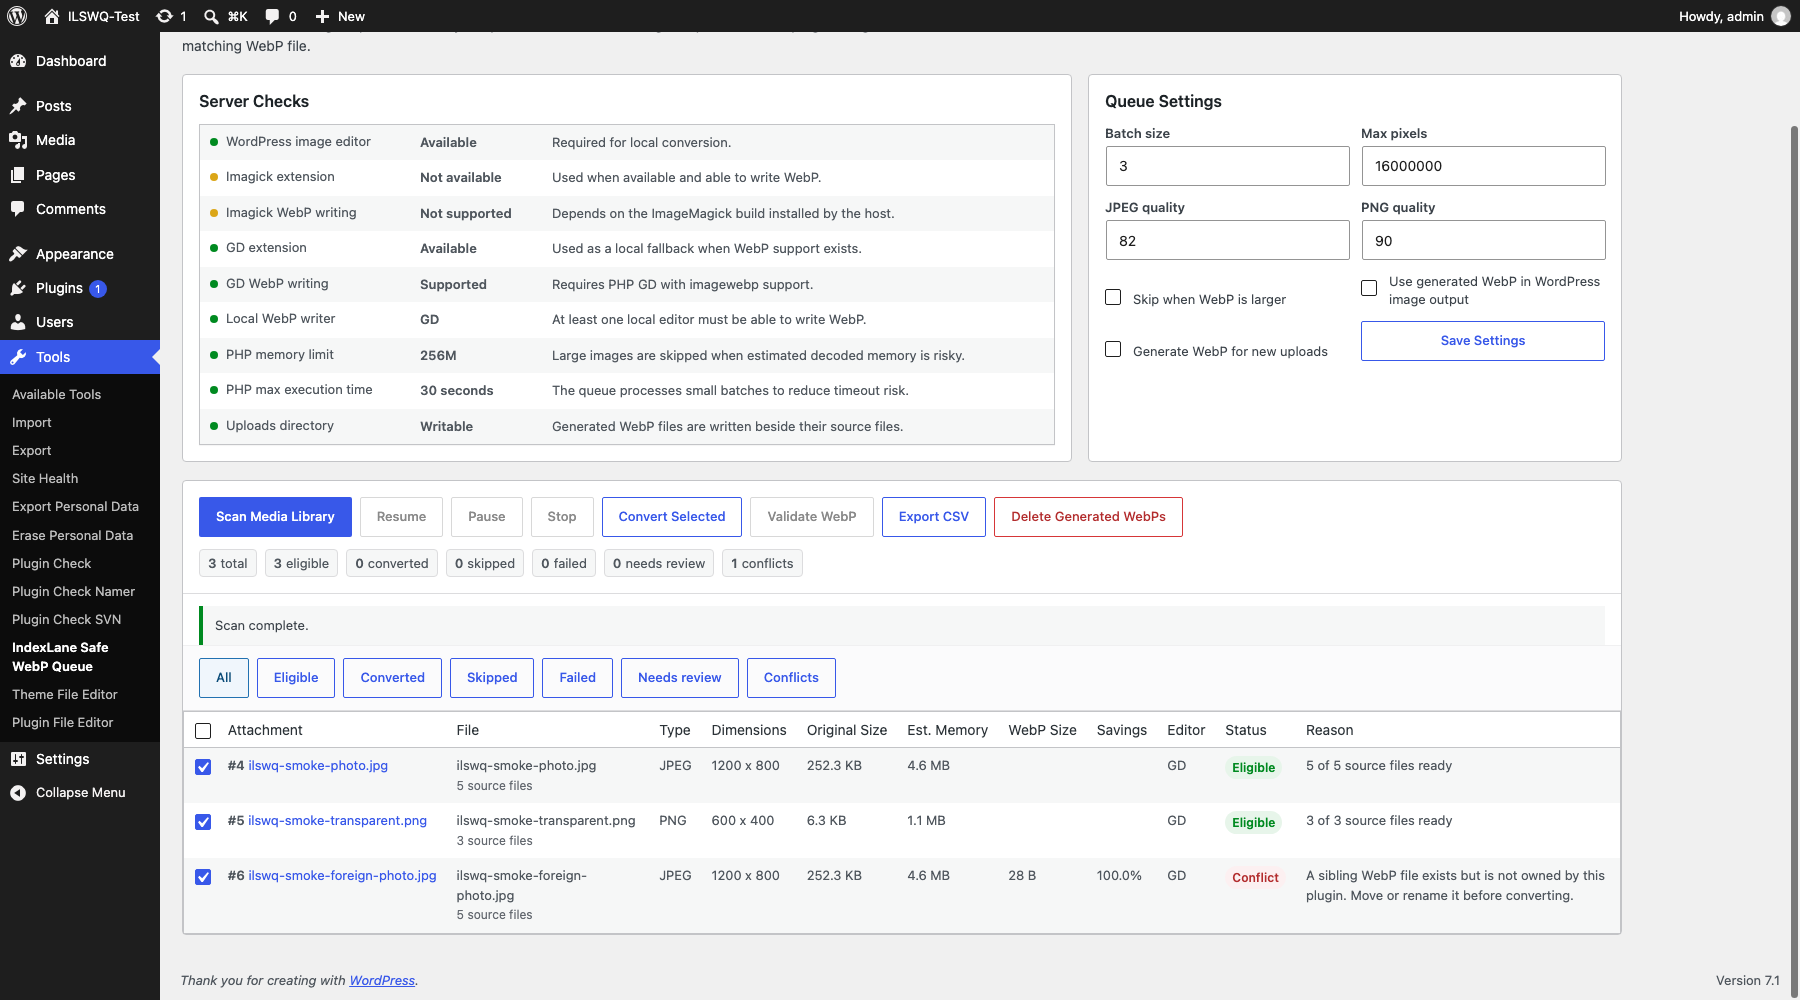
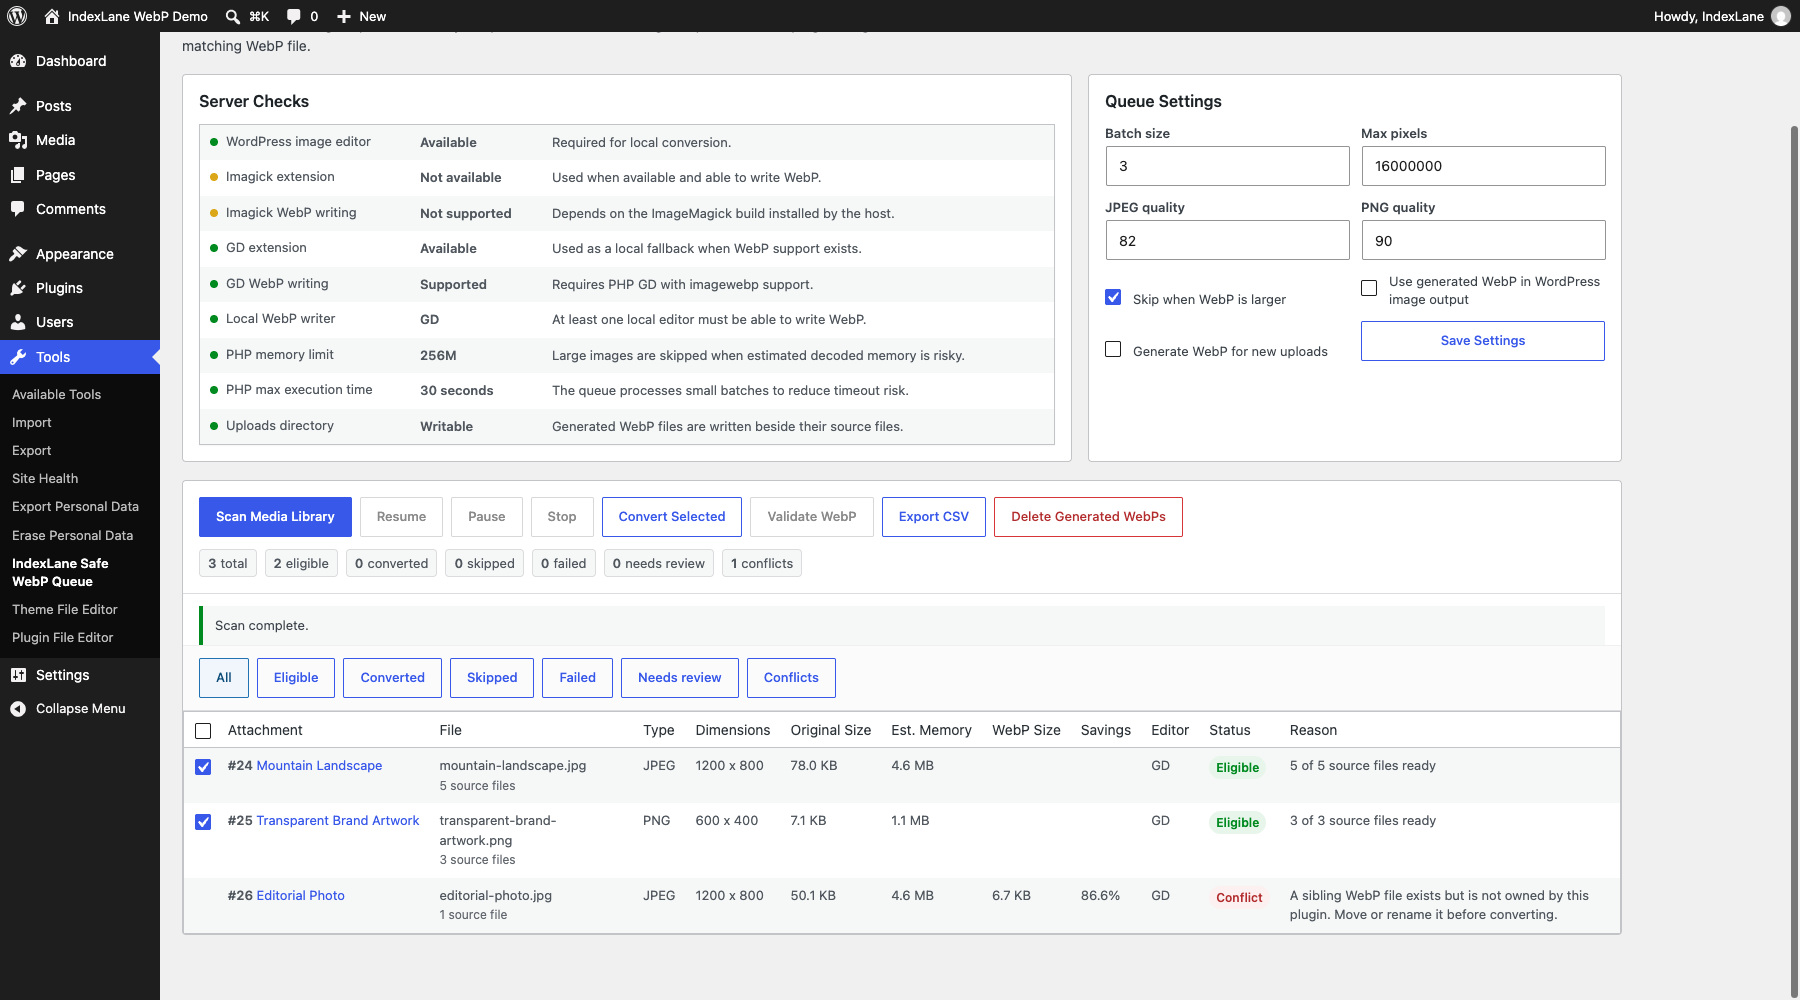
Publish WordPress.org directory assets

diff --git a/scripts/capture-screenshots.js b/scripts/capture-screenshots.js
@@ -269,6 +269,27 @@ async function navigate(client, url) {
 	await waitFor(client, 'document.readyState === "complete"', 30000);
 }
 
+async function cleanAdminChrome(client) {
+	await evaluate(
+		client,
+		`(() => {
+			const style = document.createElement('style');
+			style.textContent = [
+				'#wpbody-content > .update-nag',
+				'#wpbody-content > .notice:not(.ilswq-notice)',
+				'#wp-admin-bar-updates',
+				'#wp-admin-bar-sqlite-db-integration',
+				'#adminmenu .update-plugins',
+				'#adminmenu .awaiting-mod',
+				'#adminmenu .site-health-counter',
+				'#wpfooter'
+			].join(',') + '{display:none!important;}';
+			document.head.appendChild(style);
+			return true;
+		})()`
+	);
+}
+
 (async () => {
 	const target = await requestJson('PUT', `/json/new?${encodeURIComponent('about:blank')}`);
 	const client = new CdpClient(target.webSocketDebuggerUrl);
@@ -297,6 +318,7 @@ true;`
 
 		await navigate(client, `${baseUrl}/wp-admin/tools.php?page=indexlane-safe-webp-queue`);
 		await waitFor(client, '!!document.querySelector("#ilswq-scan")');
+		await cleanAdminChrome(client);
 		await evaluate(client, 'window.scrollTo(0, 0); true;');
 		await screenshot(client, 'screenshot-1.png');
 

diff --git a/scripts/prepare-screenshot-site.php b/scripts/prepare-screenshot-site.php
@@ -1,0 +1,230 @@
+<?php
+/**
+ * Prepare an isolated local WordPress copy for directory screenshots.
+ *
+ * Usage: php scripts/prepare-screenshot-site.php /private/tmp/ilswq-wporg.XXXXXX
+ *
+ * @package IndexLaneSafeWebPQueue
+ */
+
+$wp_path  = isset( $argv[1] ) ? rtrim( (string) $argv[1], '/\\' ) : '';
+$base_url = rtrim( (string) ( getenv( 'ILSWQ_BASE_URL' ) ?: 'http://127.0.0.1:8070' ), '/' );
+$username = (string) ( getenv( 'ILSWQ_WP_USER' ) ?: 'ilswqadmin' );
+$password = (string) ( getenv( 'ILSWQ_WP_PASS' ) ?: 'password' );
+$realpath = realpath( $wp_path );
+$host     = (string) parse_url( $base_url, PHP_URL_HOST );
+
+if (
+	false === $realpath ||
+	0 !== strpos( $realpath, '/private/tmp/ilswq-wporg.' ) ||
+	! file_exists( $realpath . '/wp-load.php' )
+) {
+	fwrite( STDERR, "An isolated WordPress copy under /private/tmp/ilswq-wporg.* is required.\n" );
+	exit( 1 );
+}
+
+if ( ! in_array( $host, array( '127.0.0.1', 'localhost', '::1' ), true ) ) {
+	fwrite( STDERR, "ILSWQ_BASE_URL must use a loopback host.\n" );
+	exit( 1 );
+}
+
+define( 'WP_USE_THEMES', false );
+if ( ! defined( 'WP_ENVIRONMENT_TYPE' ) ) {
+	define( 'WP_ENVIRONMENT_TYPE', 'local' );
+}
+
+require $realpath . '/wp-load.php';
+require_once ABSPATH . 'wp-admin/includes/file.php';
+require_once ABSPATH . 'wp-admin/includes/image.php';
+require_once ABSPATH . 'wp-admin/includes/plugin.php';
+require_once ABSPATH . 'wp-admin/includes/user.php';
+
+update_option( 'siteurl', $base_url );
+update_option( 'home', $base_url );
+update_option( 'blogname', 'IndexLane WebP Demo' );
+update_option( 'blogdescription', 'Safe local image conversion' );
+update_option( 'active_plugins', array( 'sqlite-database-integration/load.php' ) );
+
+$activation = activate_plugin( 'indexlane-safe-webp-queue/indexlane-safe-webp-queue.php' );
+if ( is_wp_error( $activation ) ) {
+	fwrite( STDERR, $activation->get_error_message() . "\n" );
+	exit( 1 );
+}
+
+if ( ! ILSWQ_Capabilities::has_webp_writer() ) {
+	fwrite( STDERR, "The isolated WordPress copy does not have a WebP writer.\n" );
+	exit( 2 );
+}
+
+$user_id = username_exists( $username );
+if ( ! $user_id ) {
+	$user_id = wp_create_user( $username, $password, $username . '@example.invalid' );
+}
+
+if ( is_wp_error( $user_id ) ) {
+	fwrite( STDERR, $user_id->get_error_message() . "\n" );
+	exit( 1 );
+}
+
+wp_set_password( $password, (int) $user_id );
+wp_update_user(
+	array(
+		'ID'           => (int) $user_id,
+		'display_name' => 'IndexLane',
+		'nickname'     => 'IndexLane',
+	)
+);
+( new WP_User( (int) $user_id ) )->set_role( 'administrator' );
+
+update_option( 'thumbnail_size_w', 150 );
+update_option( 'thumbnail_size_h', 150 );
+update_option( 'thumbnail_crop', 1 );
+update_option( 'medium_size_w', 300 );
+update_option( 'medium_size_h', 300 );
+update_option( 'medium_large_size_w', 768 );
+update_option( 'medium_large_size_h', 0 );
+update_option( 'large_size_w', 1024 );
+update_option( 'large_size_h', 1024 );
+
+$cleanup = new ILSWQ_Converter( new ILSWQ_Scanner() );
+do {
+	$cleanup_result = $cleanup->cleanup_generated( 10 );
+} while ( ! empty( $cleanup_result['hasMore'] ) );
+
+foreach ( get_posts( array( 'post_type' => 'attachment', 'post_status' => 'any', 'numberposts' => -1 ) ) as $attachment ) {
+	$source_path = get_attached_file( (int) $attachment->ID );
+	if ( is_string( $source_path ) && '' !== $source_path ) {
+		$sidecar_path = ILSWQ_Scanner::output_path( $source_path );
+		if ( file_exists( $sidecar_path ) ) {
+			wp_delete_file( $sidecar_path );
+		}
+	}
+	wp_delete_attachment( (int) $attachment->ID, true );
+}
+
+ILSWQ_Settings::save( ILSWQ_Settings::defaults() );
+delete_option( ILSWQ_OPTION_CLEANUP_PAGE );
+
+$uploads = wp_upload_dir();
+if ( ! empty( $uploads['error'] ) ) {
+	fwrite( STDERR, (string) $uploads['error'] . "\n" );
+	exit( 1 );
+}
+
+/**
+ * Create a colorful JPEG fixture.
+ *
+ * @param string $path Output path.
+ * @param int    $offset Palette offset.
+ * @return void
+ */
+function ilswq_screenshot_create_jpeg( $path, $offset ) {
+	$image = imagecreatetruecolor( 1200, 800 );
+	for ( $y = 0; $y < 800; ++$y ) {
+		$red   = ( $offset + (int) ( $y / 5 ) ) % 255;
+		$green = ( 80 + $offset + (int) ( $y / 3 ) ) % 255;
+		$blue  = ( 160 + $offset + (int) ( $y / 2 ) ) % 255;
+		$color = imagecolorallocate( $image, $red, $green, $blue );
+		imageline( $image, 0, $y, 1199, $y, $color );
+	}
+	imagejpeg( $image, $path, 90 );
+	imagedestroy( $image );
+}
+
+/**
+ * Create a transparent PNG fixture.
+ *
+ * @param string $path Output path.
+ * @return void
+ */
+function ilswq_screenshot_create_png( $path ) {
+	$image = imagecreatetruecolor( 600, 400 );
+	imagealphablending( $image, false );
+	imagesavealpha( $image, true );
+	$transparent = imagecolorallocatealpha( $image, 0, 0, 0, 127 );
+	imagefilledrectangle( $image, 0, 0, 599, 399, $transparent );
+	imagealphablending( $image, true );
+	$indigo = imagecolorallocatealpha( $image, 79, 70, 229, 10 );
+	$teal   = imagecolorallocatealpha( $image, 20, 163, 151, 18 );
+	imagefilledellipse( $image, 240, 190, 310, 230, $indigo );
+	imagefilledrectangle( $image, 275, 115, 525, 325, $teal );
+	imagepng( $image, $path );
+	imagedestroy( $image );
+}
+
+/**
+ * Add one fixture to the Media Library.
+ *
+ * @param string $path Image path.
+ * @param string $mime MIME type.
+ * @param string $title Attachment title.
+ * @param bool   $generate_metadata Whether to create sub-sizes.
+ * @return int
+ */
+function ilswq_screenshot_insert_attachment( $path, $mime, $title, $generate_metadata = true ) {
+	$attachment_id = wp_insert_attachment(
+		array(
+			'post_mime_type' => $mime,
+			'post_title'     => $title,
+			'post_status'    => 'inherit',
+		),
+		$path
+	);
+
+	if ( is_wp_error( $attachment_id ) || ! $attachment_id ) {
+		fwrite( STDERR, "Could not insert screenshot fixture.\n" );
+		exit( 1 );
+	}
+
+	if ( $generate_metadata ) {
+		$metadata = wp_generate_attachment_metadata( $attachment_id, $path );
+		wp_update_attachment_metadata( $attachment_id, $metadata );
+	}
+
+	return (int) $attachment_id;
+}
+
+$mountain_path = trailingslashit( $uploads['path'] ) . 'mountain-landscape.jpg';
+$artwork_path  = trailingslashit( $uploads['path'] ) . 'transparent-brand-artwork.png';
+$editorial_path = trailingslashit( $uploads['path'] ) . 'editorial-photo.jpg';
+
+ilswq_screenshot_create_jpeg( $mountain_path, 15 );
+ilswq_screenshot_create_png( $artwork_path );
+ilswq_screenshot_create_jpeg( $editorial_path, 105 );
+
+ilswq_screenshot_insert_attachment( $mountain_path, 'image/jpeg', 'Mountain Landscape' );
+ilswq_screenshot_insert_attachment( $artwork_path, 'image/png', 'Transparent Brand Artwork' );
+ilswq_screenshot_insert_attachment( $editorial_path, 'image/jpeg', 'Editorial Photo', false );
+
+$source = imagecreatefromjpeg( $editorial_path );
+if ( false === $source || ! imagewebp( $source, ILSWQ_Scanner::output_path( $editorial_path ), 82 ) ) {
+	fwrite( STDERR, "Could not create the protected sibling WebP fixture.\n" );
+	exit( 1 );
+}
+imagedestroy( $source );
+
+$checked_plugins = array();
+foreach ( get_plugins() as $plugin_file => $plugin_data ) {
+	$checked_plugins[ $plugin_file ] = isset( $plugin_data['Version'] ) ? (string) $plugin_data['Version'] : '';
+}
+set_site_transient(
+	'update_plugins',
+	(object) array(
+		'last_checked' => time(),
+		'checked'      => $checked_plugins,
+		'response'     => array(),
+		'no_update'    => array(),
+		'translations' => array(),
+	)
+);
+set_site_transient(
+	'update_core',
+	(object) array(
+		'updates'         => array(),
+		'last_checked'    => time(),
+		'version_checked' => get_bloginfo( 'version' ),
+	)
+);
+wp_cache_flush();
+
+echo "Prepared isolated screenshot site at {$base_url}.\n";

diff --git a/indexlane-safe-webp-queue.php b/indexlane-safe-webp-queue.php
@@ -1,7 +1,7 @@
 <?php
 /**
  * Plugin Name: IndexLane Safe WebP Queue
- * Plugin URI: https://indexlane.dev/plugins/safe-webp-queue/
+ * Plugin URI: https://indexlane.dev/plugins/safe-webp-queue
  * Description: Convert selected WordPress media images to local WebP copies in small, safety-first batches.
  * Version: 0.1.5
  * Requires at least: 6.0

diff --git a/README.md b/README.md
@@ -6,6 +6,8 @@ IndexLane Safe WebP Queue runs inside wp-admin, checks server support first, con
 
 It is for cautious local WebP conversion: no cloud service, no database URL rewrites, no original-file replacement.
 
+[Plugin page on IndexLane](https://indexlane.dev/plugins/safe-webp-queue)
+
 ## What it does
 
 - Runs from Tools -> IndexLane Safe WebP Queue.
